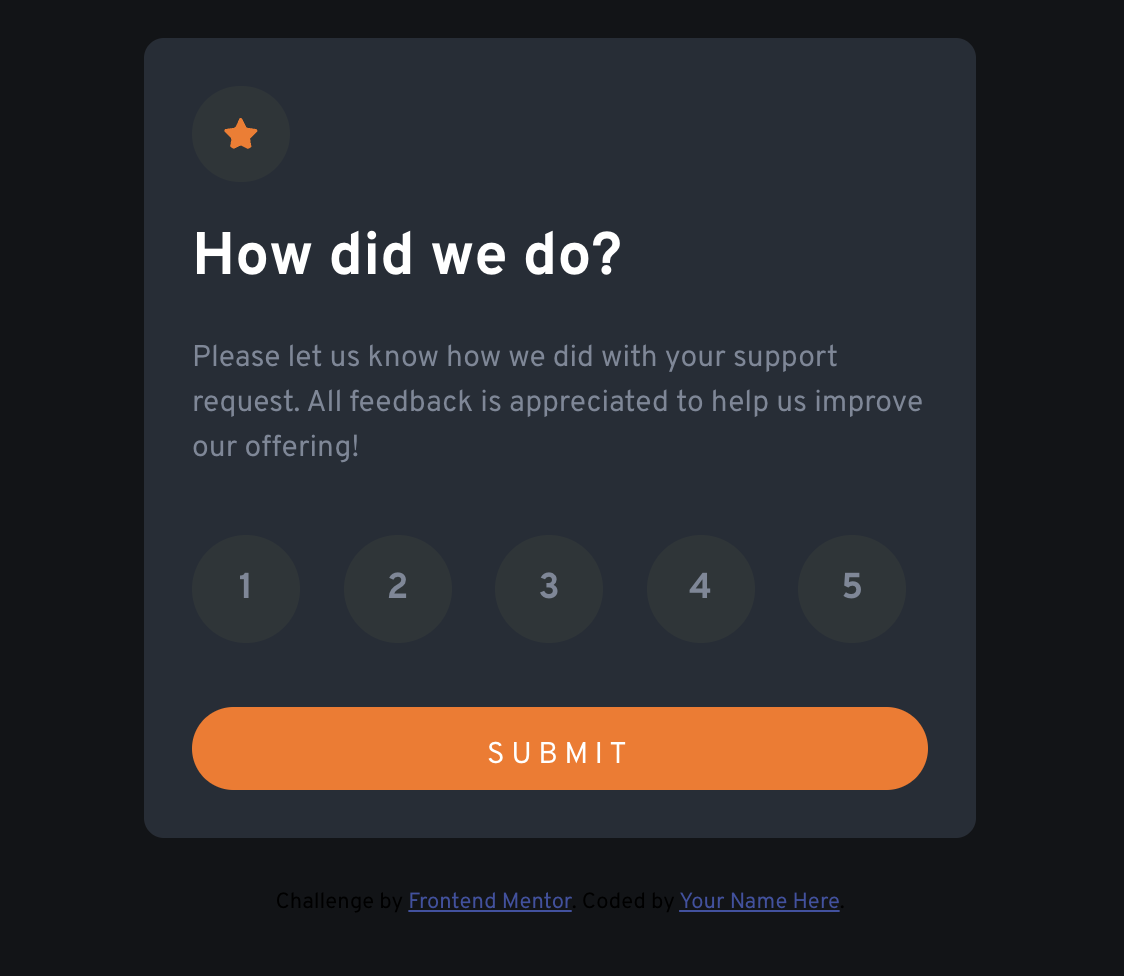
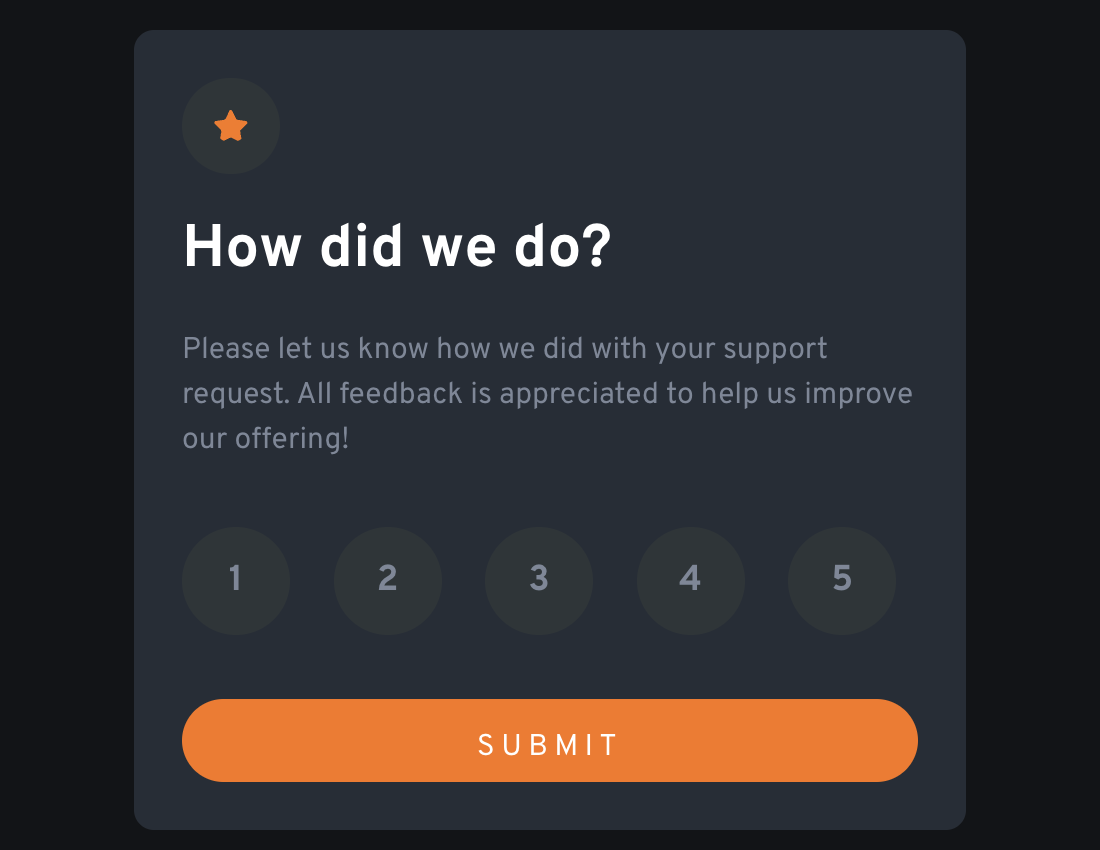
replaced screenshots with smaller versions and styled project card

diff --git a/index.html b/index.html
@@ -32,7 +32,7 @@
             <h2 class="main-title">My work</h2>
             <div class="projects-container">
                 <div class="project">
-                    <img src="Images/Project Screenshots/Landing page.png" alt="landing page project">
+                    <img src="Images/Project Screenshots/Landing page Small.jpg" alt="landing page project">
                     <div class="project-info">
                         <div class="project-header">
                             <h3 class="project-title">Landing Page</h3>
@@ -43,7 +43,7 @@
                     </div>
                 </div>
                 <div class="project">
-                    <img src="Images/Project Screenshots/Form project.png" alt="form project">
+                    <img src="Images/Project Screenshots/Form project Small.jpg" alt="form project">
                     <div class="project-info">
                         <div class="project-header">
                             <h3 class="project-title">Odin Form Project</h3>
@@ -54,7 +54,7 @@
                     </div>
                 </div>
                 <div class="project">
-                    <img src="Images/Project Screenshots/Calculator.png" alt="Calculator project">
+                    <img src="Images/Project Screenshots/Calculator Small.png" alt="Calculator project">
                     <div class="project-info">
                         <div class="project-header">
                             <h3 class="project-title">Calculator</h3>
@@ -65,7 +65,7 @@
                     </div>
                 </div>
                 <div class="project">
-                    <img src="Images/Project Screenshots/Etch-a-sketch.jpg" alt="Etch-a-sketch project">
+                    <img src="Images/Project Screenshots/Etch-a-sketch Small.jpg" alt="Etch-a-sketch project">
                     <div class="project-info">
                         <div class="project-header">
                             <h3 class="project-title">Etch-a-sketch</h3>
@@ -76,7 +76,7 @@
                     </div>
                 </div>
                 <div class="project">
-                    <img src="Images/Project Screenshots/Responsive Final Project.png" alt="final project for Conquering Responsive layouts class">
+                    <img src="Images/Project Screenshots/Responsive Final Project Small.jpg" alt="final project for Conquering Responsive layouts class">
                     <div class="project-info">
                         <div class="project-header">
                             <h3 class="project-title"></h3>
@@ -87,7 +87,7 @@
                     </div>
                 </div>
                 <div class="project">
-                    <img src="Images/Project Screenshots/Rating card.png" alt="rating card project from frontend mentor">
+                    <img src="Images/Project Screenshots/Rating card Small.jpg" alt="rating card project from frontend mentor">
                     <div class="project-info">
                         <div class="project-header">
                             <h3 class="project-title"></h3>

diff --git a/styles.css b/styles.css
@@ -1,4 +1,11 @@
 :root {
+    --clr-rosy: rgb(188, 143, 143);
+    --clr-turq: rgb(55, 110, 111);
+    --clr-grey: rgb(48, 48, 48);
+    --clr-lightrosy: rgb(224, 193, 179);
+    --clr-neutral: rgb(230, 219, 208);
+    --clr-whiteish: rgb(249, 241, 228);
+
     --ff-rale: 'Raleway', sans-serif;
     --fw-100: 100;
     --fw-400: 400;
@@ -7,12 +14,18 @@
 
     --pad-med: 1rem;
     --pad-lrg: 2rem;
+
+    --box-shadow: 5px 5px 10px 0px rgba(0,0,0,0.3);
+    --radius: 5px;
 }
 
 .page-container {
     padding: var(--pad-med);
+    max-width: 1300px;
+    margin: 0 auto;
     position: relative;
-    background: linear-gradient(0deg, rgb(55, 110, 111) 0%, rgb(188, 143, 143) 100%);
+    color: var(--clr-grey);
+    background: linear-gradient(0deg, var(--clr-turq) 0%, var(--clr-rosy) 100%);
 }
 
 .image-container {
@@ -21,11 +34,15 @@
     padding-bottom: var(--pad-med);
 }
 
+img {
+    border-radius: var(--radius);
+}
+
 h1 {
     position: absolute;
     bottom: var(--pad-med);
     left: var(--pad-med);
-    color: wheat;
+    color: var(--clr-neutral);
 }
 
 .icon {
@@ -39,13 +56,24 @@ h1 {
     gap: var(--pad-med);
 }
 
+.projects-container {
+    display: grid;
+    grid-template-columns: repeat(auto-fit, minmax(250px, 1fr));
+    gap: var(--pad-med);
+}
 .project {
-    background-color: bisque;
+    background-color: var(--clr-neutral);
+    padding: var(--pad-med);
+    border-radius: var(--radius);
+    box-shadow: var(--box-shadow);
+}
+
+.project-info {
+    padding: var(--pad-med) 0;
 }
 
 .project-header {
     display: grid;
     grid-template-columns: 1fr auto auto;
     gap: var(--pad-med);
-    padding: .75rem;
 }
